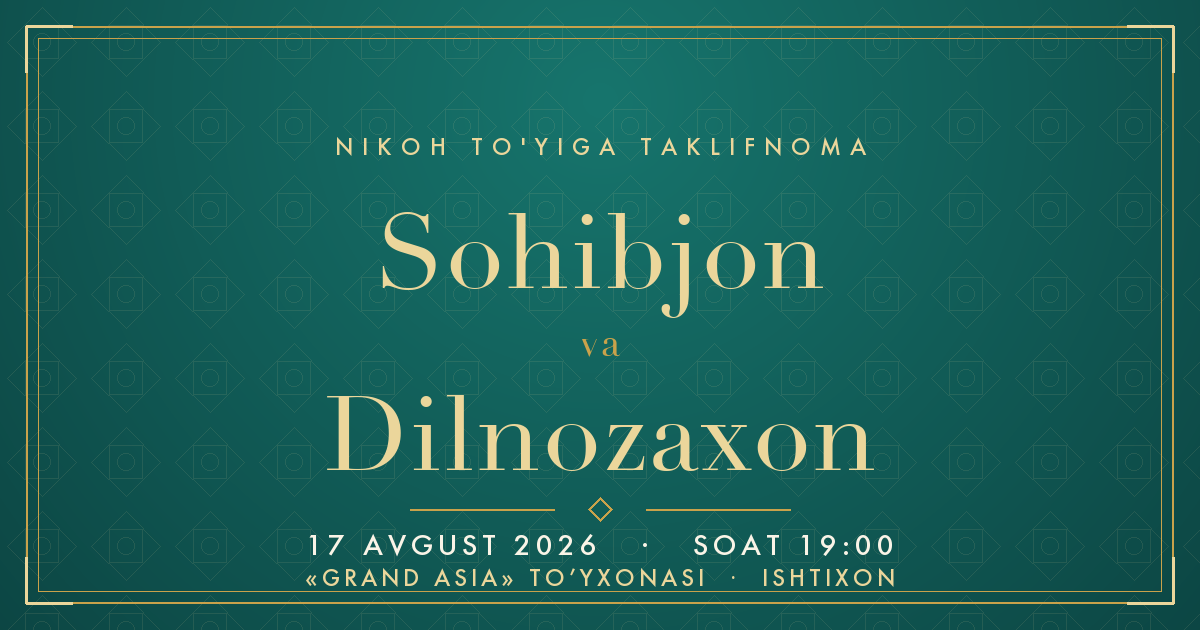
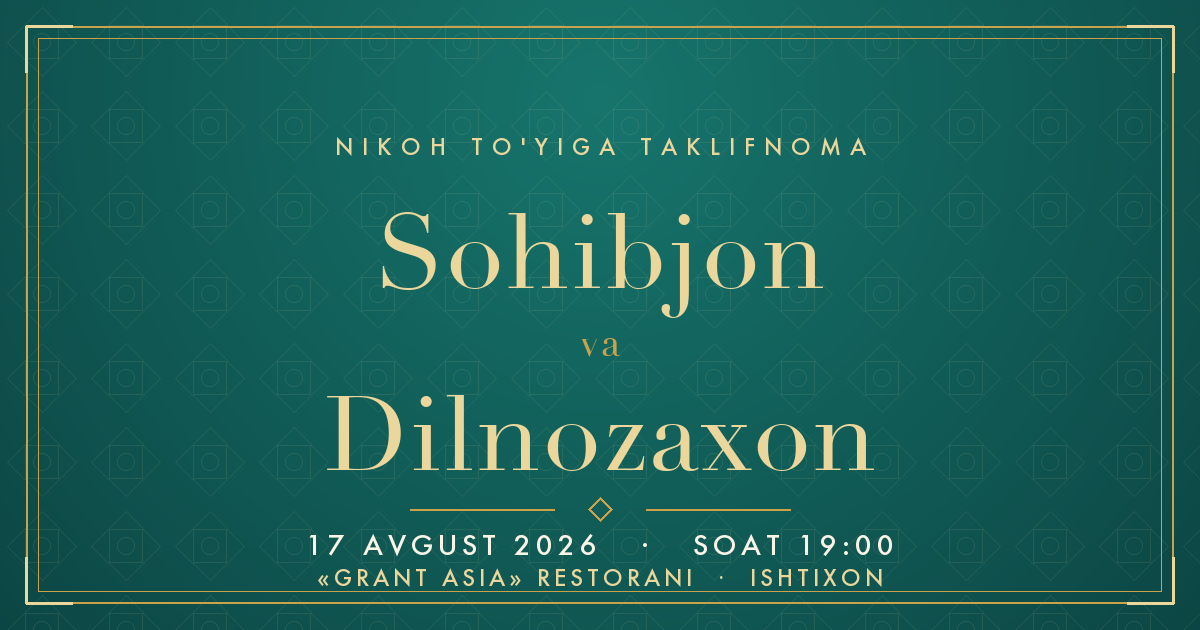
Manzil o'zgardi: «Grant Asia» restorani, Guliston ko'chasi 50A, Ishtixon
- Nom «Grand Asia» to'yxonasi -> «Grant Asia» restorani (hamma joyda)
- Manzil: Ishtixon, Guliston ko'chasi, 50A
- Xarita endi aniq koordinata bilan: 39.954992, 66.490685 (Yandex org sahifasidan)
  -> Google Maps havolasi, ichki xarita va yo'l ko'rsatish aynan shu nuqtaga
- Yandex havolasi to'g'ridan-to'g'ri tashkilot sahifasiga
- meta/og tavsiflari, .ics kalendar yozuvi va og.png qayta yasaldi
- Kesh v=16

Changed region(s): [[0.2467, 0.9048, 0.5858, 0.9349], [0.6167, 0.9048, 0.74, 0.9349]]

diff --git a/index.html b/index.html
@@ -4,14 +4,14 @@
 <meta charset="UTF-8">
 <meta name="viewport" content="width=device-width, initial-scale=1.0, viewport-fit=cover">
 <title>Sohibjon &amp; Dilnozaxon — Nikoh to'yi taklifnomasi</title>
-<meta name="description" content="Sohibjon va Dilnozaxonning nikoh to'yiga taklifnoma. 17-avgust, 2026 · soat 19:00 · «Grand Asia» to'yxonasi, Ishtixon.">
+<meta name="description" content="Sohibjon va Dilnozaxonning nikoh to'yiga taklifnoma. 17-avgust, 2026 · soat 19:00 · «Grant Asia» restorani, Guliston ko'chasi 50A, Ishtixon.">
 <meta name="theme-color" content="#062A2B">
 
 <meta property="og:type" content="website">
 <meta property="og:locale" content="uz_UZ">
 <meta property="og:site_name" content="Nikoh to'yi taklifnomasi">
 <meta property="og:title" content="Sohibjon &amp; Dilnozaxon — Nikoh to'yi taklifnomasi">
-<meta property="og:description" content="17-avgust, 2026 · soat 19:00 · «Grand Asia» to'yxonasi, Ishtixon. Sizni astoydil kutamiz.">
+<meta property="og:description" content="17-avgust, 2026 · soat 19:00 · «Grant Asia» restorani, Guliston ko'chasi 50A, Ishtixon. Sizni astoydil kutamiz.">
 <meta property="og:url" content="https://toy-taklifnoma.pages.dev/">
 <meta property="og:image" content="https://toy-taklifnoma.pages.dev/assets/og.png">
 <meta property="og:image:width" content="1200">
@@ -26,7 +26,7 @@
 <link rel="preload" as="style" href="https://fonts.googleapis.com/css2?family=Aref+Ruqaa&family=Marcellus&family=Cormorant+Garamond:ital,wght@0,400;0,600;1,400&family=Jost:wght@300;400;500&display=swap"
       onload="this.onload=null;this.rel='stylesheet'">
 <noscript><link rel="stylesheet" href="https://fonts.googleapis.com/css2?family=Aref+Ruqaa&family=Marcellus&family=Cormorant+Garamond:ital,wght@0,400;0,600;1,400&family=Jost:wght@300;400;500&display=swap"></noscript>
-<link rel="stylesheet" href="assets/style.css?v=15">
+<link rel="stylesheet" href="assets/style.css?v=16">
 <script>document.documentElement.classList.remove('no-js');</script>
 </head>
 <body>
@@ -77,7 +77,7 @@
     <p class="eyebrow eyebrow--light hero__eyebrow">Nikoh to'yiga taklifnoma</p>
     <h1 class="hero__names"><span class="foil">Sohibjon</span><em>va</em><span class="foil">Dilnozaxon</span></h1>
     <span class="ornament" aria-hidden="true"></span>
-    <p class="hero__meta">17-avgust, 2026 &nbsp;·&nbsp; soat <b>19:00</b><em>«Grand Asia» to'yxonasi · Ishtixon</em></p>
+    <p class="hero__meta">17-avgust, 2026 &nbsp;·&nbsp; soat <b>19:00</b><em>«Grant Asia» restorani · Ishtixon</em></p>
   </div>
 
   <a class="scroll-cue" href="#taklif"><span>Pastga tushing</span><i aria-hidden="true"></i></a>
@@ -165,16 +165,16 @@
     </header>
 
     <div class="venue reveal">
-      <p class="venue__name">«Grand Asia» to'yxonasi</p>
-      <p class="venue__addr" id="venueAddr">Samarqand viloyati, Ishtixon tumani</p>
+      <p class="venue__name">«Grant Asia» restorani</p>
+      <p class="venue__addr" id="venueAddr">Ishtixon, Guliston ko'chasi, 50A</p>
 
       <div class="map" id="map">
         <div class="map__skeleton" aria-hidden="true"></div>
       </div>
 
       <div class="venue__nav">
-        <a class="btn btn--solid" href="https://www.google.com/maps/search/?api=1&amp;query=Grand+Asia+to%27yxonasi+Ishtixon+Samarqand" target="_blank" rel="noopener">Google Maps</a>
-        <a class="btn btn--ghost" href="https://yandex.uz/maps/?text=Grand%20Asia%20Ishtixon%20Samarqand" target="_blank" rel="noopener">Yandex</a>
+        <a class="btn btn--solid" href="https://www.google.com/maps/search/?api=1&amp;query=39.954992,66.490685" target="_blank" rel="noopener">Google Maps</a>
+        <a class="btn btn--ghost" href="https://yandex.uz/maps/org/grant_asia_restorant/15190833538/" target="_blank" rel="noopener">Yandex</a>
         <button class="btn btn--ghost" id="copyAddr" type="button">Manzildan nusxa</button>
       </div>
     </div>
@@ -291,7 +291,7 @@
 <div class="toast" id="toast" role="status" aria-live="polite"></div>
 
 <script src="assets/config.js"></script>
-<script src="assets/app.js?v=15"></script>
+<script src="assets/app.js?v=16"></script>
 <script>
 /* Zaxira: skript yiqilgan bo'lsa ham mehmon taklifnomani ko'raveradi */
 if (!window.__toyReady) {

diff --git a/assets/config.js b/assets/config.js
@@ -16,8 +16,8 @@ window.TOY = {
 
   /* Tadbir ma'lumotlari (kalendar fayli uchun) */
   title: "Sohibjon va Dilnozaxon — nikoh to'yi",
-  place: "«Grand Asia» to'yxonasi, Ishtixon tumani, Samarqand viloyati",
+  place: "«Grant Asia» restorani, Guliston ko'chasi 50A, Ishtixon, Samarqand viloyati",
 
   /* Xaritada ko'rsatiladigan nuqta */
-  mapQuery: "Grand Asia to'yxonasi Ishtixon Samarqand"
+  mapQuery: "39.954992,66.490685"
 };

diff --git a/tools/make-og.py b/tools/make-og.py
@@ -104,7 +104,7 @@ d.line([(W / 2 + 46, oy), (W / 2 + 190, oy)], fill=GOLD, width=2)
 d.polygon([(W / 2, oy - 12), (W / 2 + 12, oy), (W / 2, oy + 12), (W / 2 - 12, oy)], outline=GOLD, width=2)
 
 tracked(d, '17 AVGUST 2026   ·   SOAT 19:00', f_meta, 526, CREAM, track=5)
-tracked(d, '«GRAND ASIA» TO’YXONASI  ·  ISHTIXON', f_place, 563, GOLD_LT, track=4)
+tracked(d, '«GRANT ASIA» RESTORANI  ·  ISHTIXON', f_place, 563, GOLD_LT, track=4)
 
 os.makedirs(os.path.dirname(OUT), exist_ok=True)
 img.save(OUT, 'PNG', optimize=True)

diff --git a/README.md b/README.md
@@ -2,7 +2,7 @@
 
 Mobil-birinchi onlayn taklifnoma + mehmonlar javoblarini ko'rish uchun admin panel.
 
-**To'y:** 17-avgust 2026, soat 19:00 · «Grand Asia» to'yxonasi, Ishtixon.
+**To'y:** 17-avgust 2026, soat 19:00 · «Grant Asia» restorani, Guliston ko'chasi 50A, Ishtixon.
 
 ---
 
